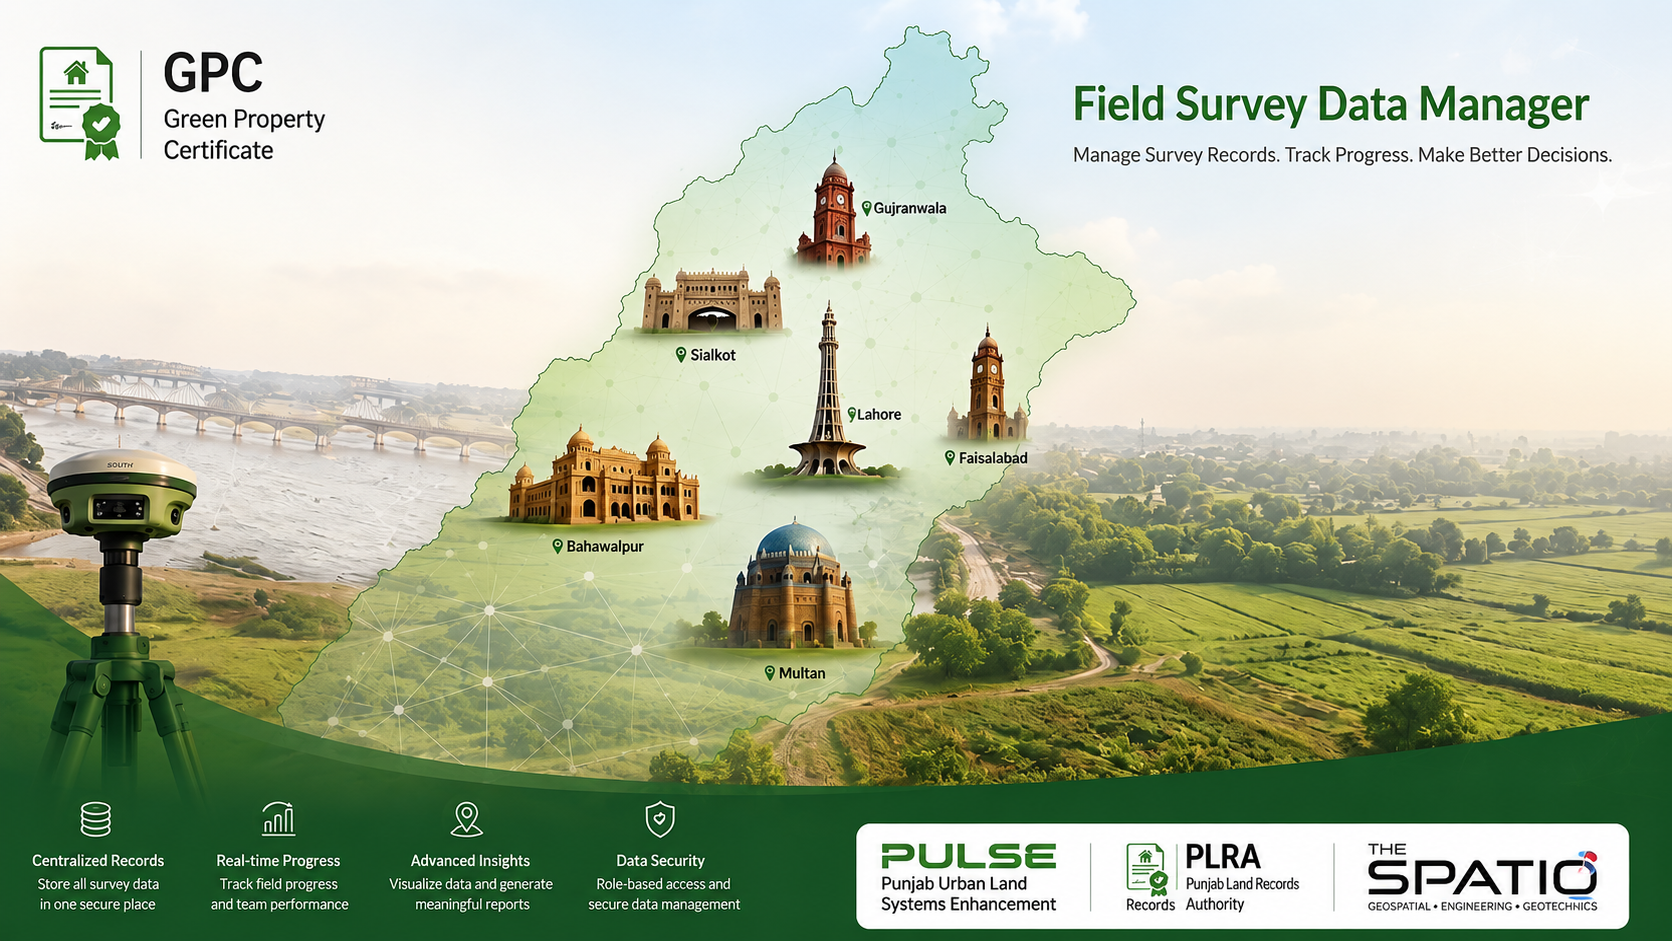
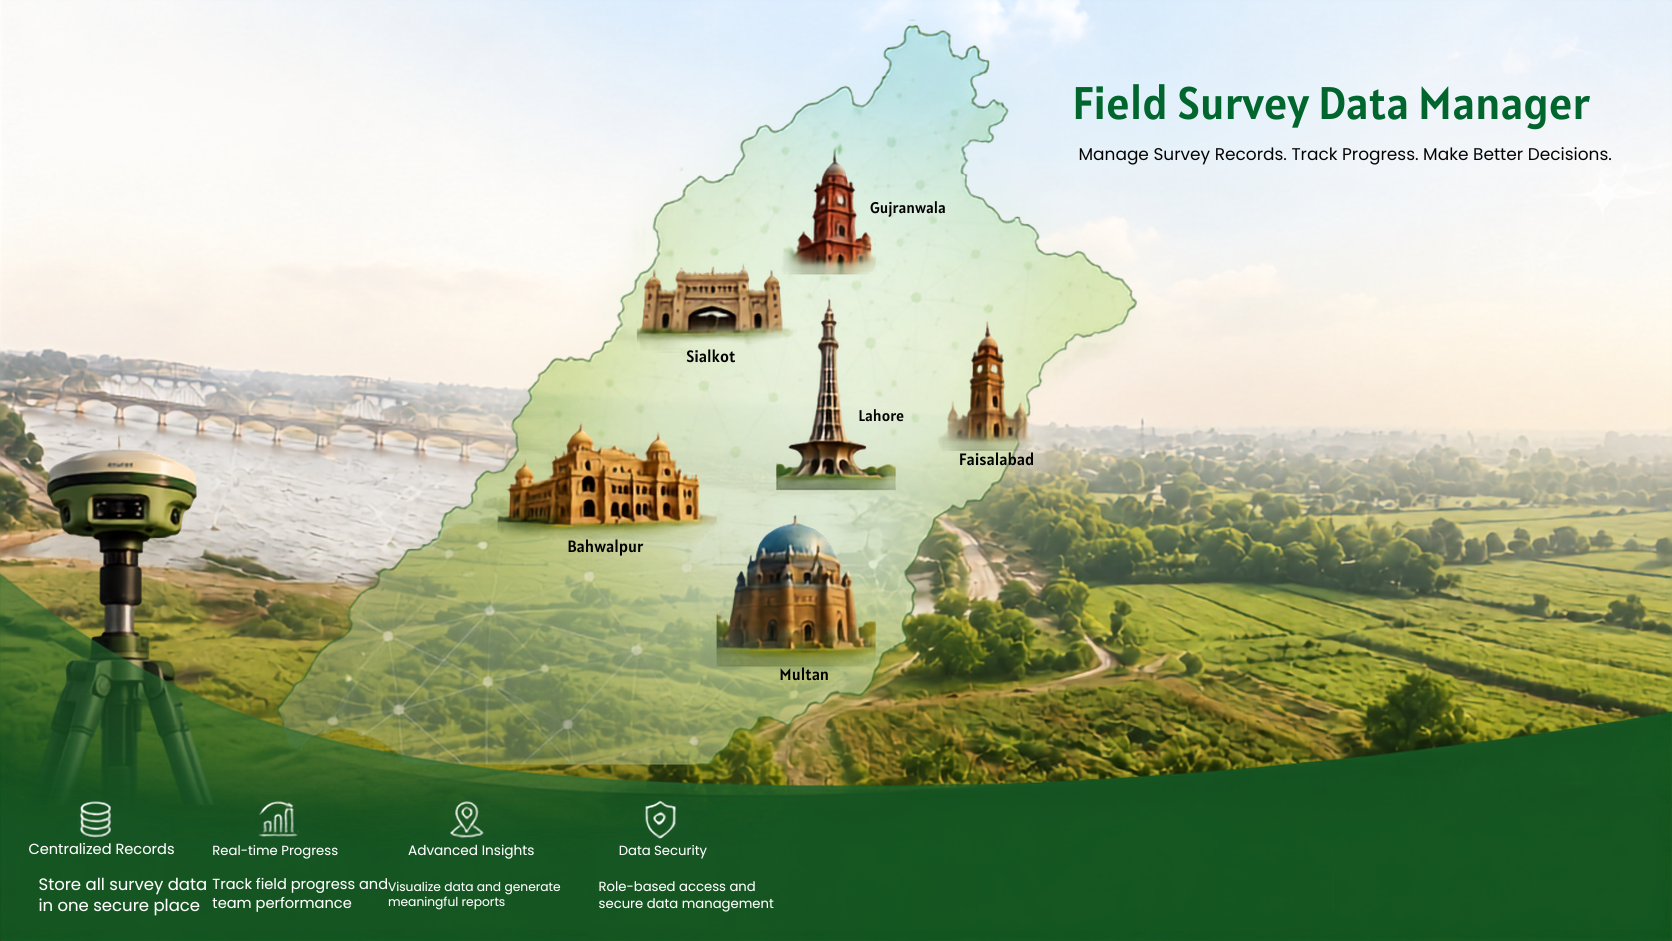
Add files via upload

diff --git a/index.html b/index.html
@@ -413,19 +413,18 @@ td.italic-remark{font-style:italic;color:var(--text-tertiary);max-width:300px;ov
 .login-split{position:fixed;inset:0;display:flex;z-index:90;background:url('./login-bg.png') center center/cover no-repeat;}
 .login-split::before{content:'';position:absolute;inset:0;background:linear-gradient(180deg,rgba(26,92,42,0.15) 0%,rgba(26,92,42,0.55) 100%);pointer-events:none;}
 .login-left{flex:1.2;position:relative;display:flex;flex-direction:column;justify-content:space-between;padding:var(--space-8);z-index:1;}
-.login-brand{display:flex;align-items:center;gap:var(--space-3);}
-.login-brand-icon{width:48px;height:48px;background:linear-gradient(135deg,#1a5c2a,#2d7a3e);border-radius:var(--radius);display:flex;align-items:center;justify-content:center;font-weight:800;font-size:16px;color:#fff;box-shadow:0 4px 16px rgba(0,0,0,0.2);}
-.login-brand-text h1{font-size:22px;font-weight:700;color:#fff;letter-spacing:-0.02em;text-shadow:0 2px 8px rgba(0,0,0,0.3);}
-.login-brand-text p{font-size:14px;color:rgba(255,255,255,0.85);margin-top:2px;text-shadow:0 1px 4px rgba(0,0,0,0.3);}
+.login-brand{display:flex;align-items:center;gap:var(--space-3);background:rgba(255,255,255,0.95);width:fit-content;padding:10px 18px 10px 10px;border-radius:var(--radius);box-shadow:var(--shadow-lg);}
+.login-brand-icon{width:44px;height:44px;background:linear-gradient(135deg,#1a5c2a,#2d7a3e);border-radius:var(--radius-sm);display:flex;align-items:center;justify-content:center;font-weight:800;font-size:15px;color:#fff;flex-shrink:0;}
+.login-brand-text h1{font-size:17px;font-weight:700;color:#0f172a;letter-spacing:-0.01em;}
+.login-brand-text p{font-size:12px;color:#64748b;margin-top:1px;}
 .login-features{display:grid;grid-template-columns:repeat(2,1fr);gap:var(--space-5);max-width:420px;}
 .login-feature{display:flex;align-items:flex-start;gap:var(--space-3);}
 .login-feature svg{width:22px;height:22px;color:#a7f3d0;flex-shrink:0;margin-top:2px;}
 .login-feature div h4{font-size:13px;font-weight:600;color:#fff;margin-bottom:2px;}
 .login-feature div p{font-size:12px;color:rgba(255,255,255,0.75);line-height:1.4;}
-.login-partners{display:flex;align-items:center;gap:var(--space-4);background:rgba(255,255,255,0.12);backdrop-filter:blur(8px);padding:var(--space-3) var(--space-4);border-radius:var(--radius);border:1px solid rgba(255,255,255,0.15);width:fit-content;}
-.login-partners img{height:32px;filter:brightness(0) invert(1);opacity:0.9;}
-.login-partners span{font-size:12px;font-weight:700;color:#fff;letter-spacing:0.04em;text-transform:uppercase;opacity:0.95;white-space:nowrap;}
-.login-partners span:not(:last-child){padding-right:var(--space-4);border-right:1px solid rgba(255,255,255,0.3);}
+.login-partners{display:flex;align-items:center;gap:var(--space-4);background:rgba(255,255,255,0.95);padding:10px 20px;border-radius:var(--radius);box-shadow:var(--shadow-lg);width:fit-content;}
+.login-partners img{height:30px;width:auto;object-fit:contain;display:block;}
+.login-partners .divider{width:1px;height:26px;background:#e2e8f0;flex-shrink:0;}
 .login-right{flex:1;position:relative;z-index:1;display:flex;align-items:center;justify-content:center;padding:var(--space-6);overflow-y:auto;}
 .login-card{width:100%;max-width:420px;background:#ffffff;border:1px solid #e2e8f0;border-radius:var(--radius-lg);padding:var(--space-8);box-shadow:var(--shadow-xl);animation:scaleIn var(--dur-slow) var(--ease-out);}
 .login-card .auth-brand{margin-bottom:var(--space-6);}
@@ -483,9 +482,11 @@ td.italic-remark{font-style:italic;color:var(--text-tertiary);max-width:300px;ov
       <div class="login-brand-text"><h1>Green Property Certificate</h1><p>Field Survey Data Manager</p></div>
     </div>
     <div class="login-partners">
-      <span>Pulse</span>
-      <span>PLRA</span>
-      <span>The Spatio</span>
+      <img src="./pulse-logo.png" alt="PULSE">
+      <div class="divider"></div>
+      <img src="./plra-logo.png" alt="PLRA">
+      <div class="divider"></div>
+      <img src="./spatio-logo.jpg" alt="The Spatio">
     </div>
   </div>
   <div class="login-right">
@@ -513,9 +514,11 @@ td.italic-remark{font-style:italic;color:var(--text-tertiary);max-width:300px;ov
       <div class="login-brand-text"><h1>Green Property Certificate</h1><p>Field Survey Data Manager</p></div>
     </div>
     <div class="login-partners">
-      <span>Pulse</span>
-      <span>PLRA</span>
-      <span>The Spatio</span>
+      <img src="./pulse-logo.png" alt="PULSE">
+      <div class="divider"></div>
+      <img src="./plra-logo.png" alt="PLRA">
+      <div class="divider"></div>
+      <img src="./spatio-logo.jpg" alt="The Spatio">
     </div>
   </div>
   <div class="login-right">
